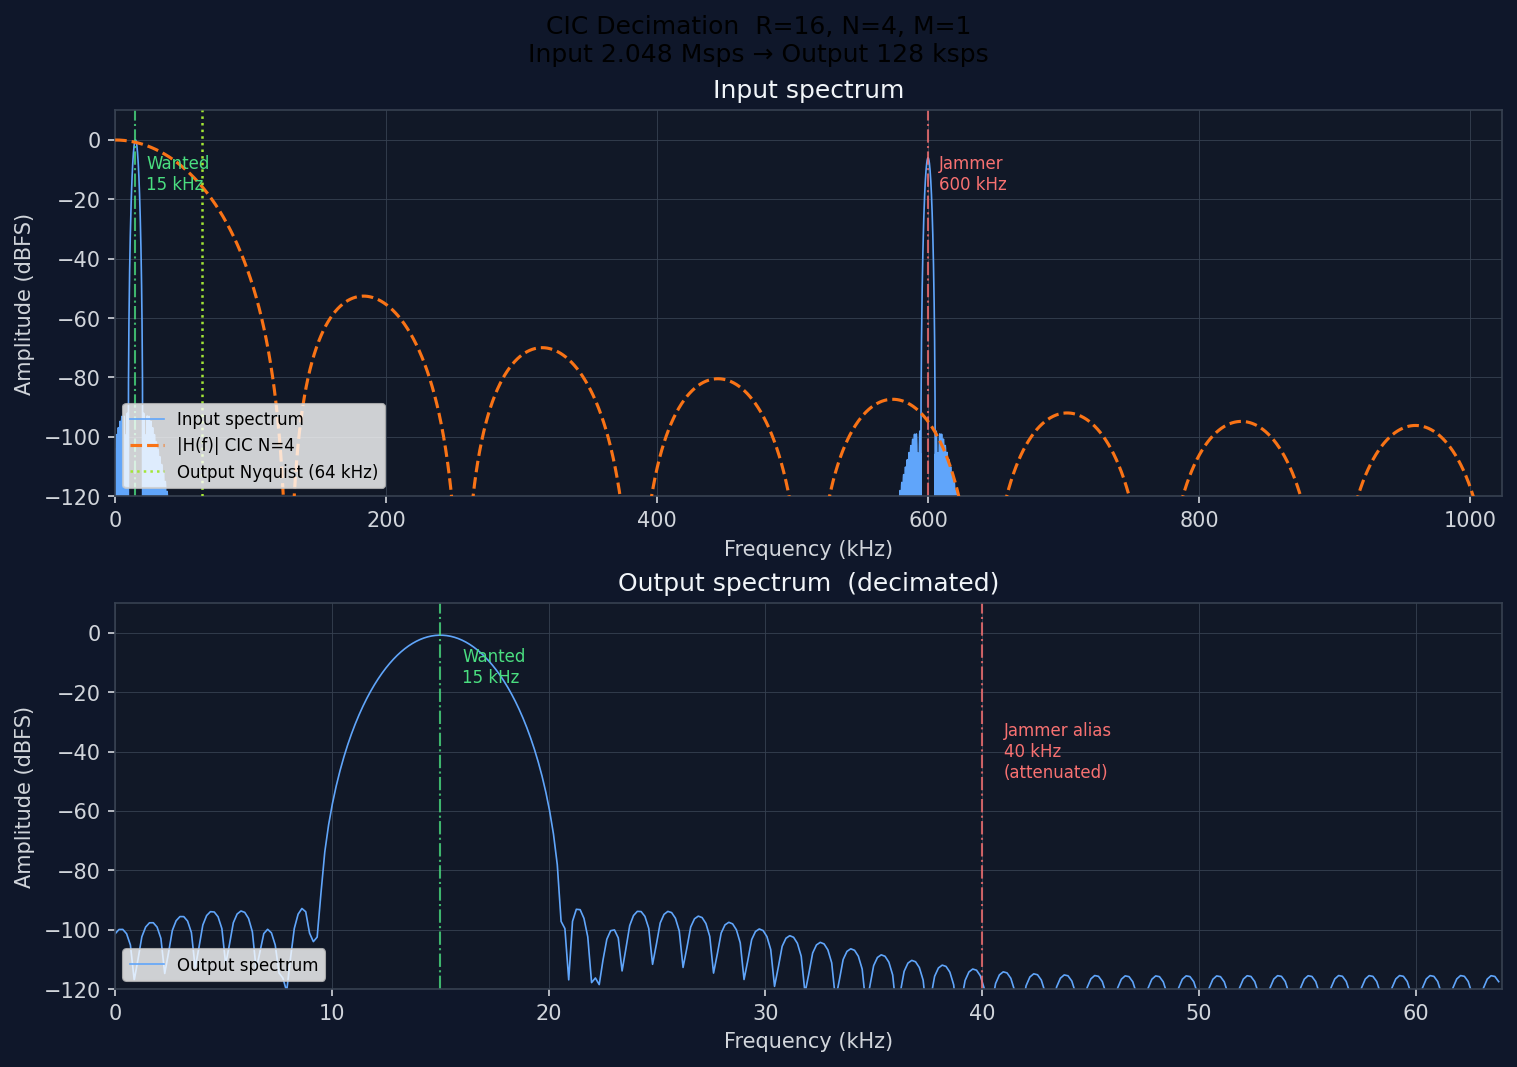
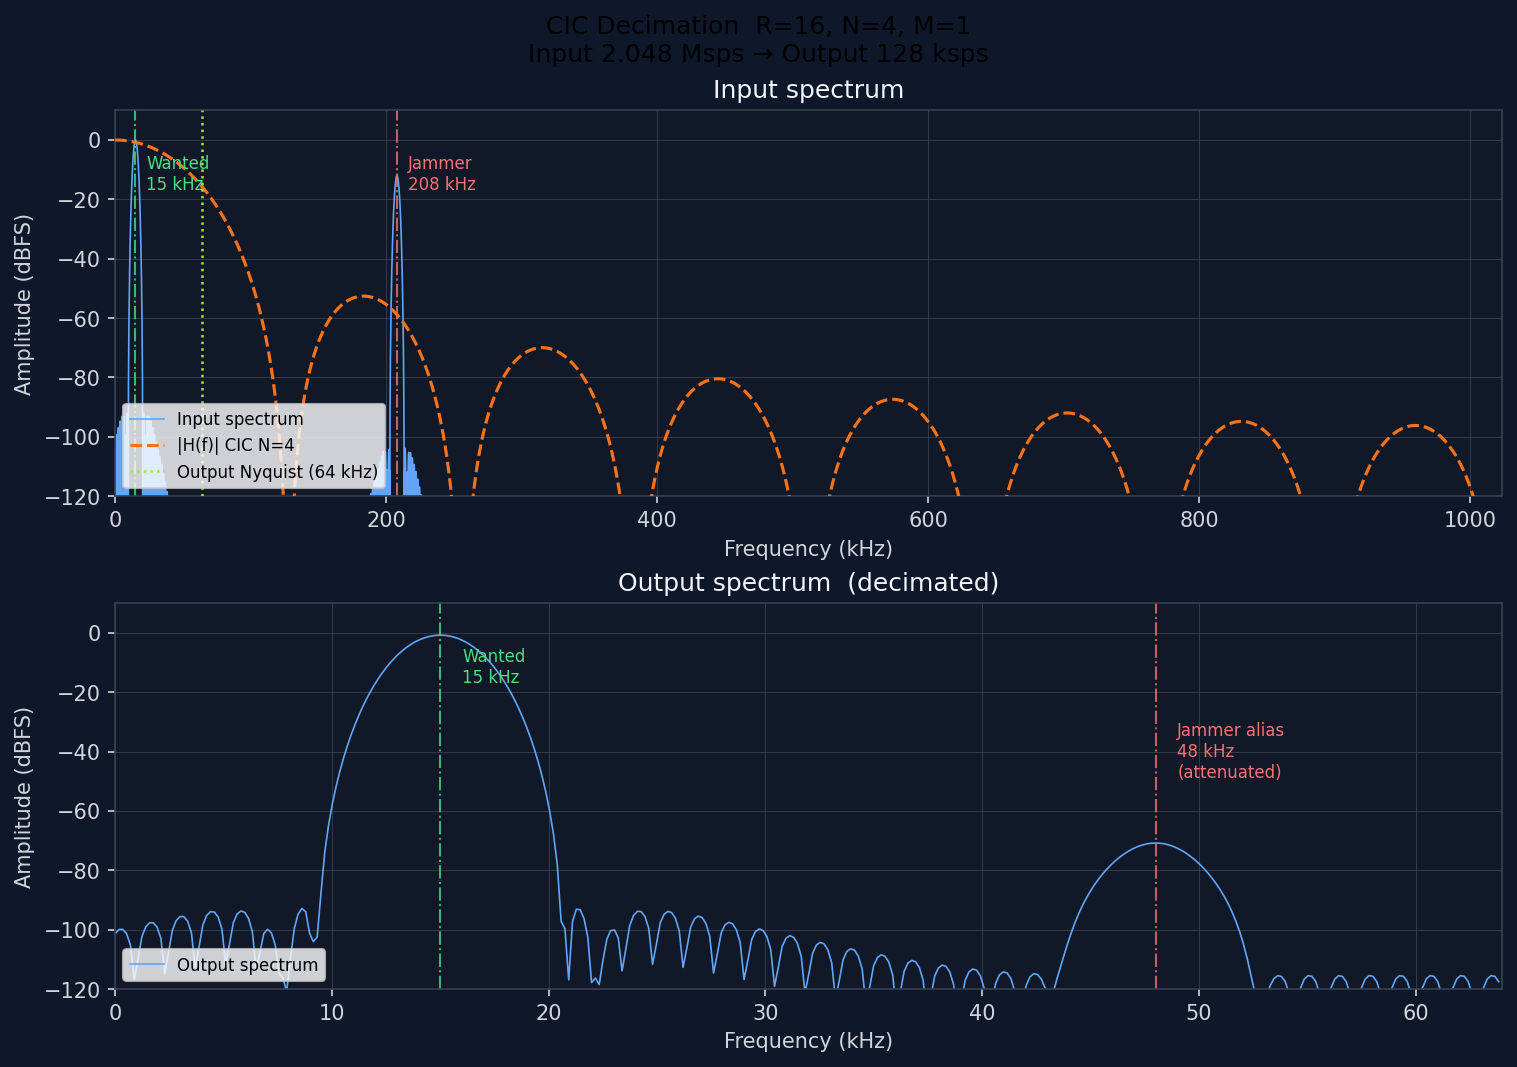
demo(cic): use real-cosine jammer at 208 kHz; alias now visible at 48 kHz
208 kHz is in the first aliasing band. A complex exponential there aliases
to -48 kHz (negative freq, invisible in a positive-only spectrum). Using
cos() gives both ±208 kHz components → ±48 kHz aliases; the +48 kHz alias
appears at -70.8 dBFS, 32 dB above the noise floor.

diff --git a/examples/python/cic_demo.py b/examples/python/cic_demo.py
@@ -182,13 +182,16 @@ def demo_sdr_pipeline():
     fs_out = fs_in / R
 
     f_wanted = 15e3
-    f_jammer = 600e3
+    f_jammer = 208e3   # first alias zone [fs_out, 2*fs_out); aliases to 48 kHz
 
     fn_wanted = f_wanted / fs_in
     fn_jammer = f_jammer / fs_in
 
     N_IN  = 8 * R * 12
-    x = _tone(fn_wanted, N_IN) + 0.5 * _tone(fn_jammer, N_IN)
+    # Jammer is a real cosine so both ±208 kHz components alias to ±48 kHz
+    # in the output, producing a visible real-valued alias in the spectrum.
+    jammer_real = np.cos(2 * np.pi * fn_jammer * np.arange(N_IN)).astype(np.complex64)
+    x = _tone(fn_wanted, N_IN) + 0.5 * jammer_real
 
     print(f"  Input fs = {fs_in/1e6:.3f} Msps, R={R} → output {fs_out/1e3:.0f} ksps")
     print(f"  Wanted:  {f_wanted/1e3:.0f} kHz  (fn={fn_wanted:.5f})")

diff --git a/docs/gallery.md b/docs/gallery.md
@@ -20,7 +20,7 @@ python examples/python/agc_demo.py
 
 ![CIC decimation spectrum](assets/cic_demo_spectrum.png)
 
-Top: wideband input spectrum (2.048 Msps) with the CIC magnitude response overlaid.  The jammer at 600 kHz falls outside the output Nyquist boundary and is suppressed by 40+ dB.  Bottom: decimated output at 128 ksps — the 15 kHz wanted tone survives while the jammer alias is buried in the noise floor.
+Top: wideband input spectrum (2.048 Msps) with the CIC magnitude response overlaid.  The jammer sits at 208 kHz — just inside the first aliasing band, where the CIC sidelobe provides only ~59 dB of rejection.  Bottom: decimated output at 128 ksps — the 15 kHz wanted tone dominates, but the jammer alias is visible at 48 kHz, ~71 dB below the wanted signal.
 
 ```bash
 python examples/python/cic_demo.py